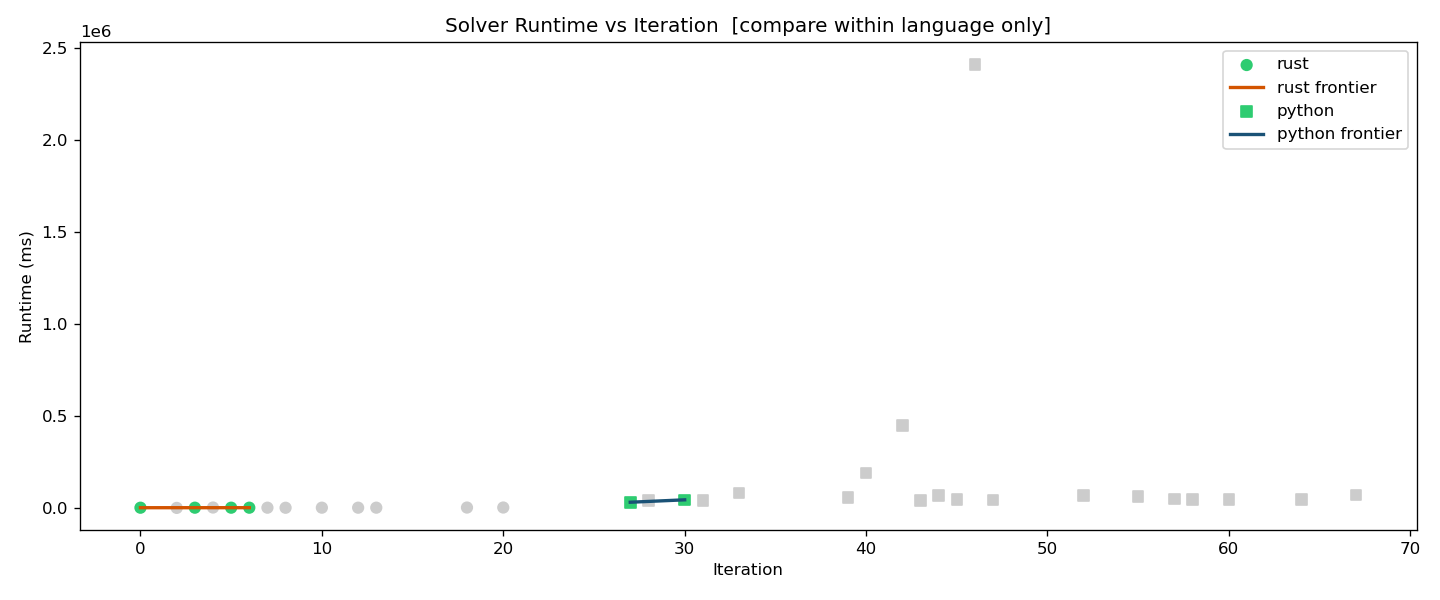
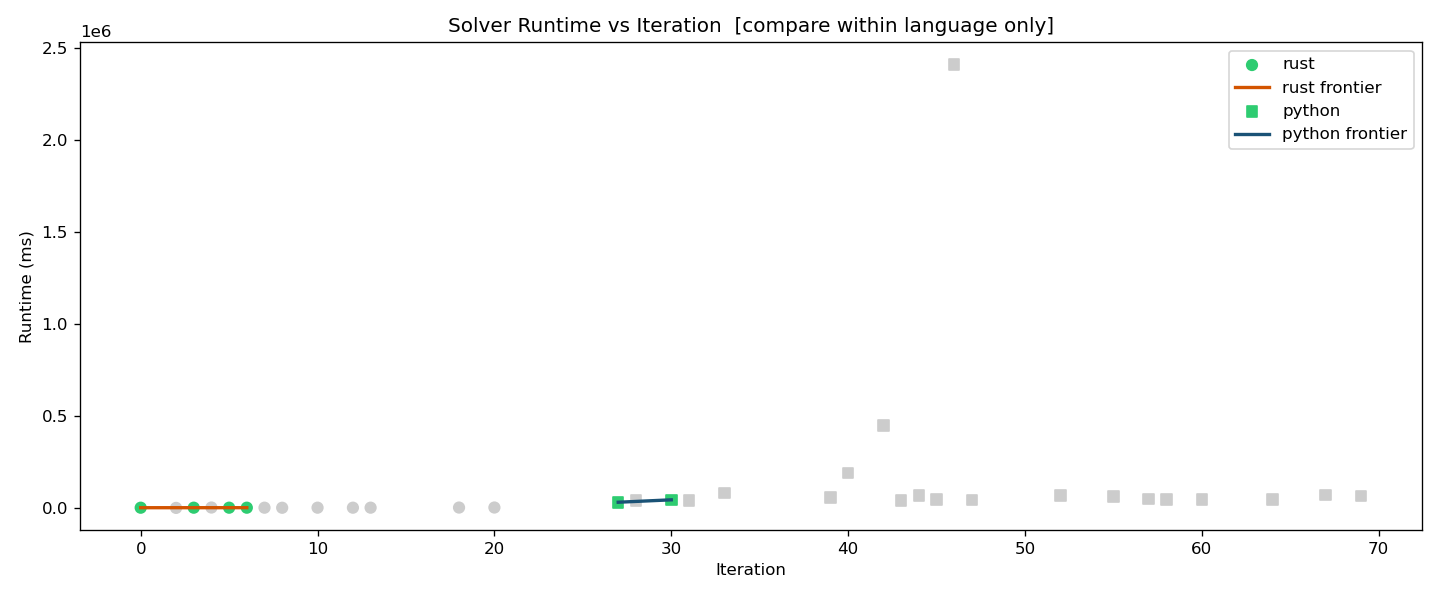
LOG [69]: update research log (experiment/69_lkh-based-construction)

diff --git a/research_history.md b/research_history.md
@@ -1260,3 +1260,11 @@ INFEASIBLE
 Decision: DISCARDED
 
 ---
+
+## Iteration 69 — 2026-06-09T07:12:27
+Branch: `experiment/69_lkh-based-construction`
+Proposal: Replace Regret-2 construction with LKH-based route building for better initial solutions.
+Result: 41v / 9811.95 / 64972ms / gap 15.12%
+Decision: DISCARDED (quality_improved=False, time_improved=False)
+
+---